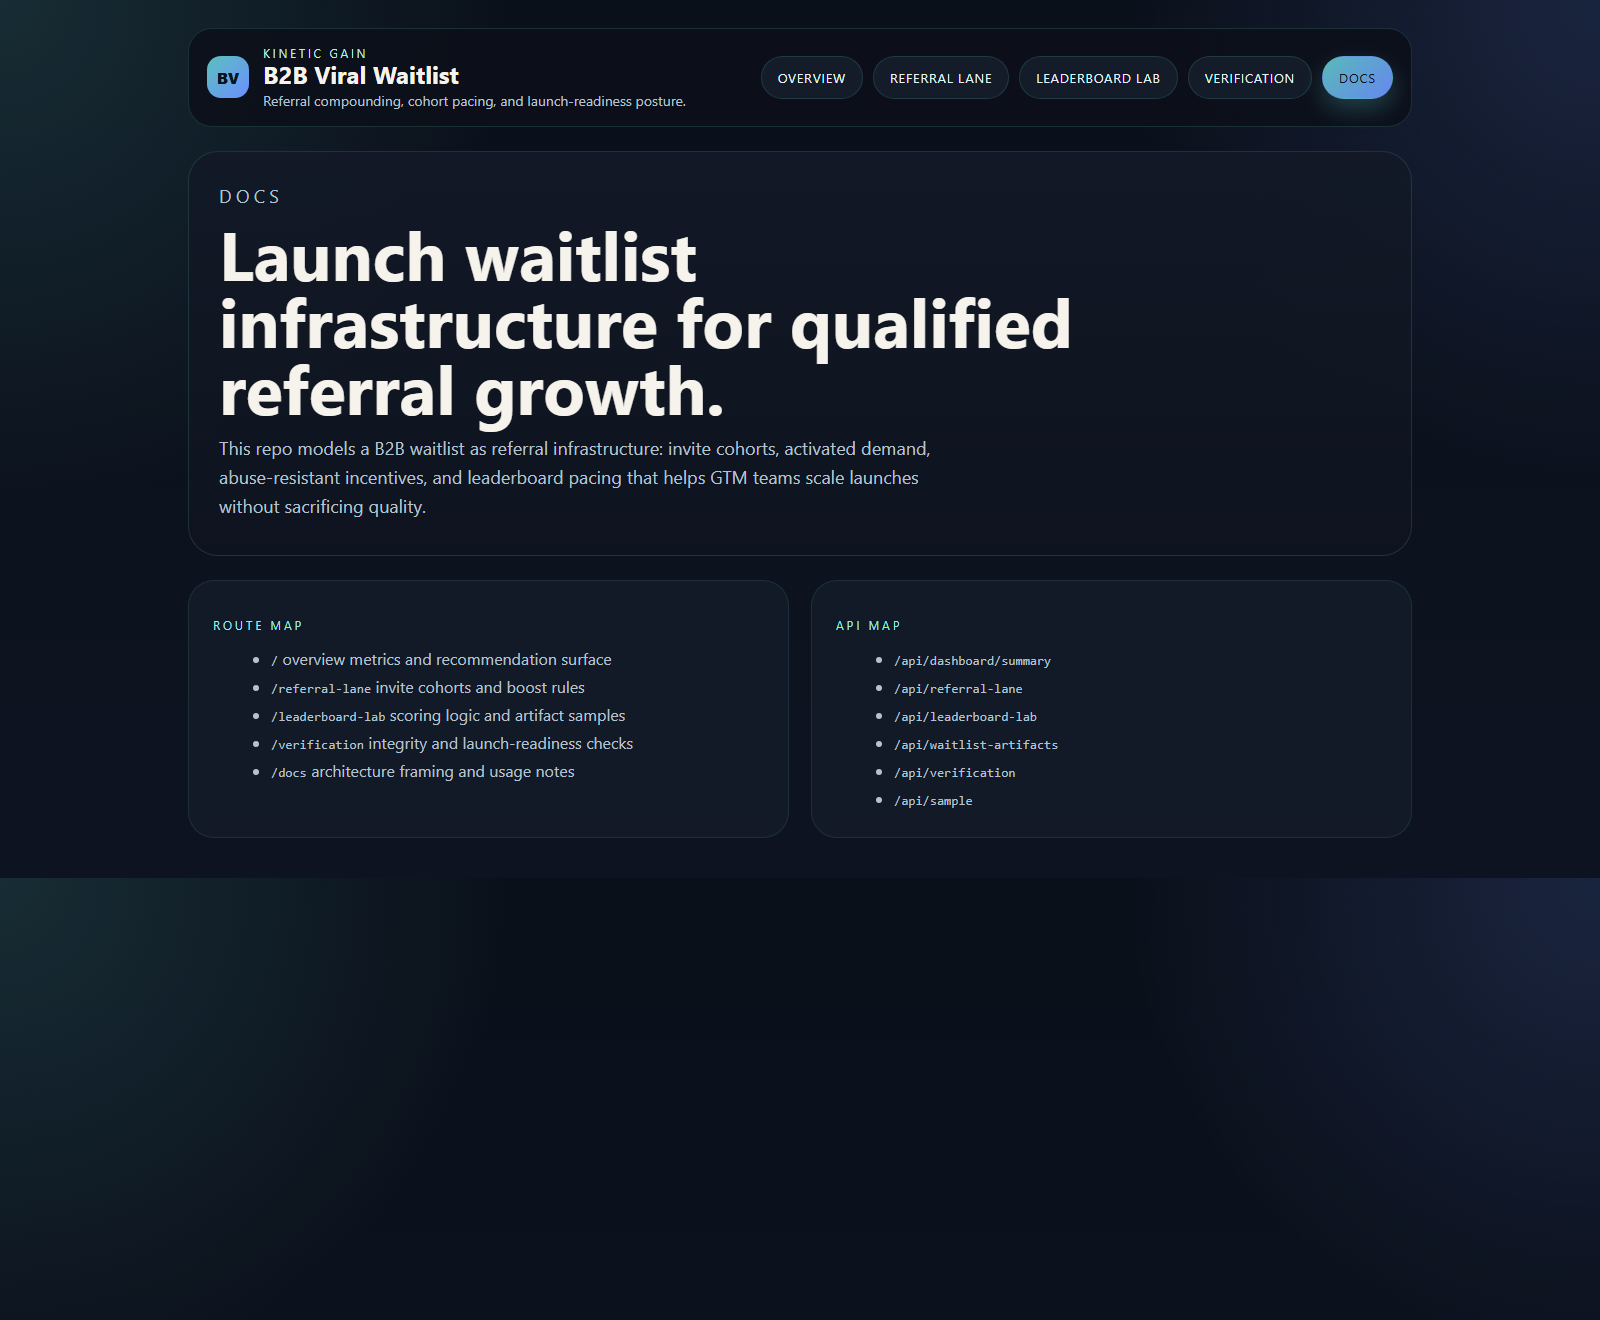
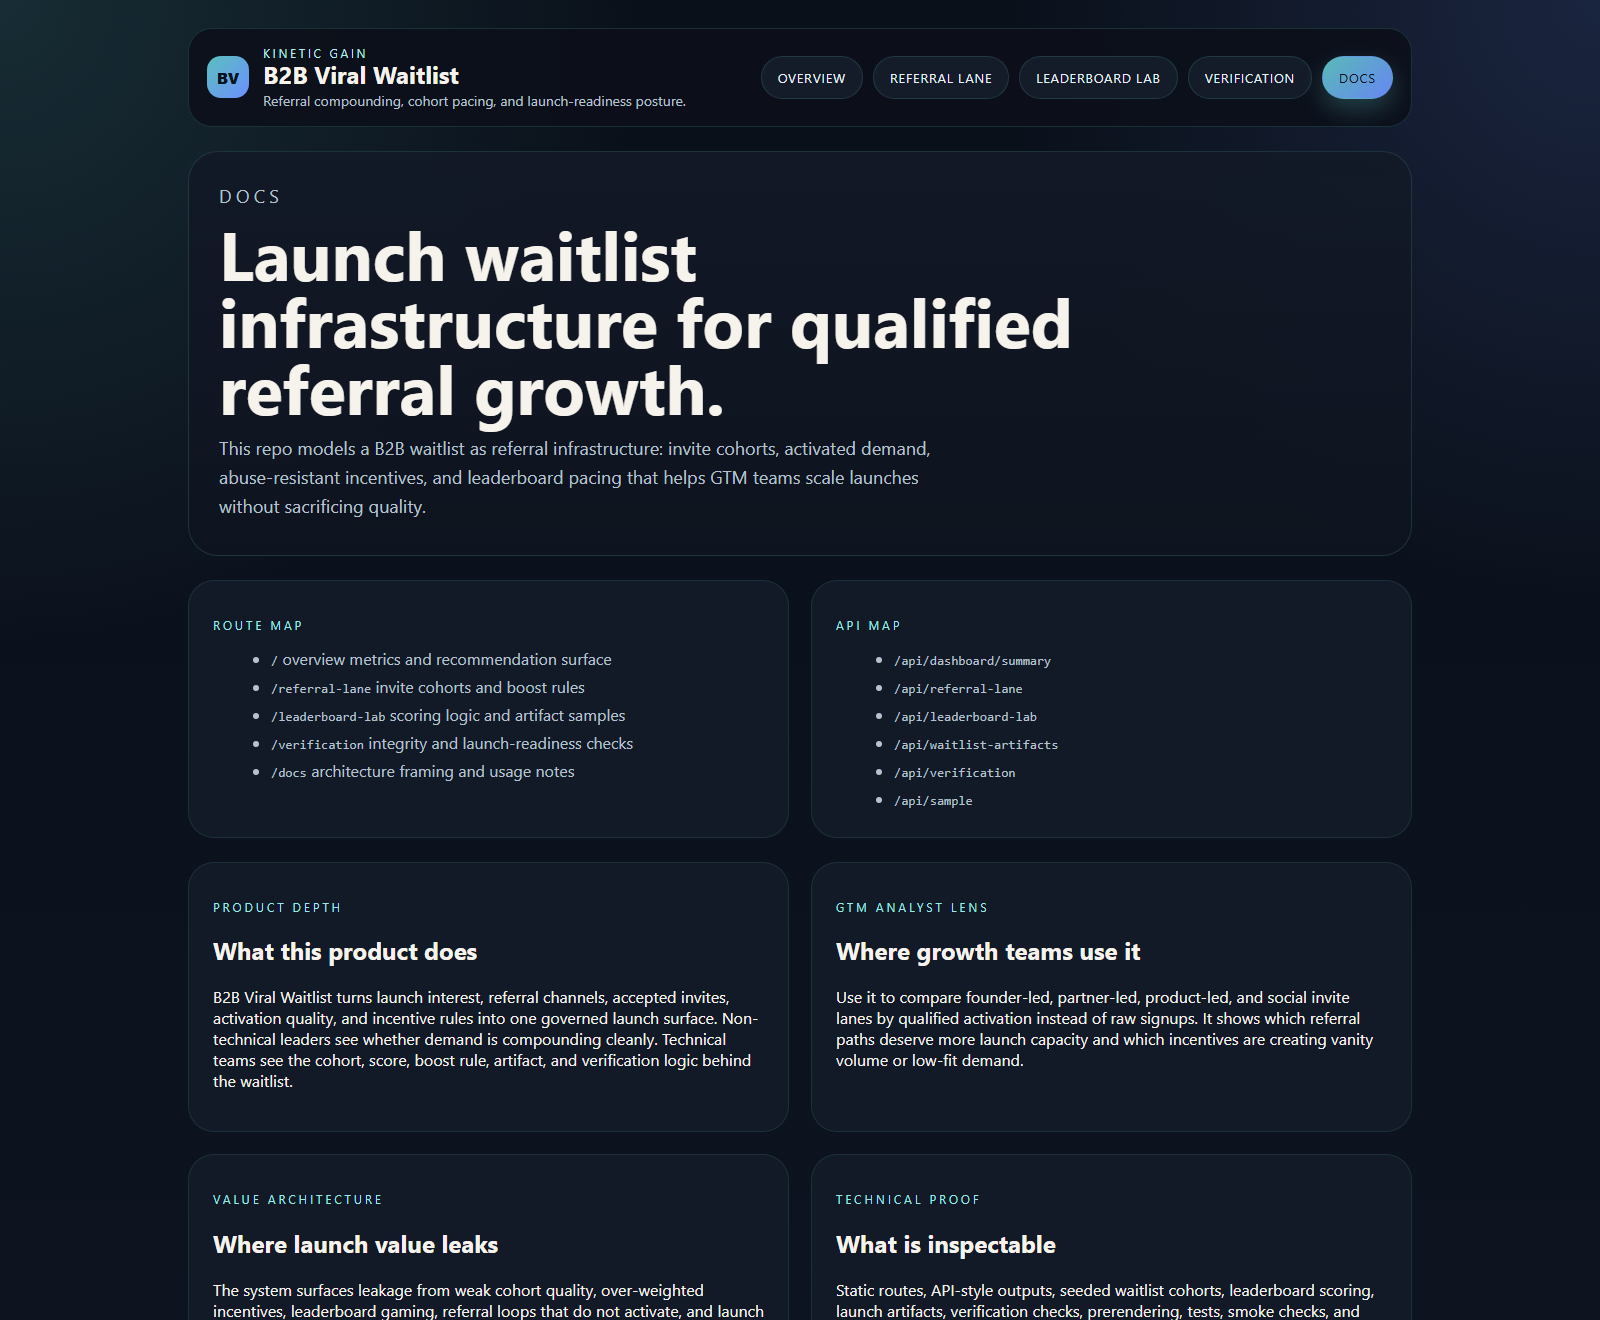
Deepen waitlist proof surface

diff --git a/src/services/render.ts b/src/services/render.ts
@@ -160,6 +160,37 @@ function healthPill(health: "healthy" | "watch" | "critical") {
   return `<span class="pill ${cls}">${health}</span>`;
 }
 
+function renderProductDepth() {
+  return `
+    <section class="content-grid">
+      <article class="panel span-6">
+        <p class="panel-title">Product depth</p>
+        <h2>What this product does</h2>
+        <p>B2B Viral Waitlist turns launch interest, referral channels, accepted invites, activation quality, and incentive rules into one governed launch surface. Non-technical leaders see whether demand is compounding cleanly. Technical teams see the cohort, score, boost rule, artifact, and verification logic behind the waitlist.</p>
+      </article>
+      <article class="panel span-6">
+        <p class="panel-title">GTM analyst lens</p>
+        <h2>Where growth teams use it</h2>
+        <p>Use it to compare founder-led, partner-led, product-led, and social invite lanes by qualified activation instead of raw signups. It shows which referral paths deserve more launch capacity and which incentives are creating vanity volume or low-fit demand.</p>
+      </article>
+      <article class="panel span-6">
+        <p class="panel-title">Value architecture</p>
+        <h2>Where launch value leaks</h2>
+        <p>The system surfaces leakage from weak cohort quality, over-weighted incentives, leaderboard gaming, referral loops that do not activate, and launch pushes that create volume without buyer readiness. Leaders can protect scarce sales and onboarding capacity before the launch wave hits.</p>
+      </article>
+      <article class="panel span-6">
+        <p class="panel-title">Technical proof</p>
+        <h2>What is inspectable</h2>
+        <p>Static routes, API-style outputs, seeded waitlist cohorts, leaderboard scoring, launch artifacts, verification checks, prerendering, tests, smoke checks, and screenshot generation keep this as a real operator surface rather than generic marketing copy.</p>
+      </article>
+      <article class="panel span-12">
+        <p class="panel-title">Portfolio pattern</p>
+        <h2>What these repos have in common</h2>
+        <p>Each Kinetic Gain surface converts operational evidence into board-readable decisions: owner, signal, model, risk, value, route, and verification stay visible together.</p>
+      </article>
+    </section>`;
+}
+
 export function renderOverview() {
   const dashboard = summary();
   const cohorts = referralLane();
@@ -250,6 +281,7 @@ export function renderOverview() {
         </div>
       </article>
     </section>
+    ${renderProductDepth()}
   `;
 
   return layout("B2B Viral Waitlist", "/", body);
@@ -426,6 +458,7 @@ export function renderDocs() {
         </ul>
       </article>
     </section>
+    ${renderProductDepth()}
   `;
 
   return layout("B2B Viral Waitlist - Docs", "/docs", body);

diff --git a/README.md b/README.md
@@ -9,6 +9,18 @@ Board-ready Kinetic Gain surface for referral-driven B2B waitlists, cohort pacin
 
 Leaders need one waitlist surface that shows which referral lanes are compounding qualified demand, which incentives are distorting launch quality, and where activation pressure should move before the next go-to-market push.
 
+## What this product does
+
+B2B Viral Waitlist turns launch interest, referral channels, accepted invites, activation quality, and incentive rules into one governed launch surface. It connects cohort source, audience, invite volume, accepted accounts, referral rate, boost logic, leaderboard posture, and launch-readiness checks in one operating view.
+
+For a SaaS go-to-market analyst, the product answers which waitlist lanes create qualified demand, which channels only create vanity volume, and where product marketing, sales, partnerships, or community teams should intervene before launch capacity gets wasted.
+
+For a SaaS value architect, it exposes where launch value leaks: weak cohort quality, over-weighted incentives, leaderboard gaming, referrals that do not activate, and launch motions that overwhelm onboarding or sales without producing buyer-ready accounts.
+
+For technical reviewers, the repo includes static routes, API-style outputs, seeded cohort data, leaderboard scoring, artifact samples, verification checks, prerendered pages, smoke tests, and screenshot generation. It is meant to demonstrate an inspectable operator surface, not a keyword-only landing page.
+
+This follows the broader Kinetic Gain pattern: every surface keeps owner, signal, model, risk, value, route, and verification visible together so non-technical and technical readers can understand what the system does and why it matters.
+
 ## What it includes
 
 - TypeScript control plane for referral-driven B2B waitlists, leaderboard scoring, invite cohorts, and activation-aware growth loops
